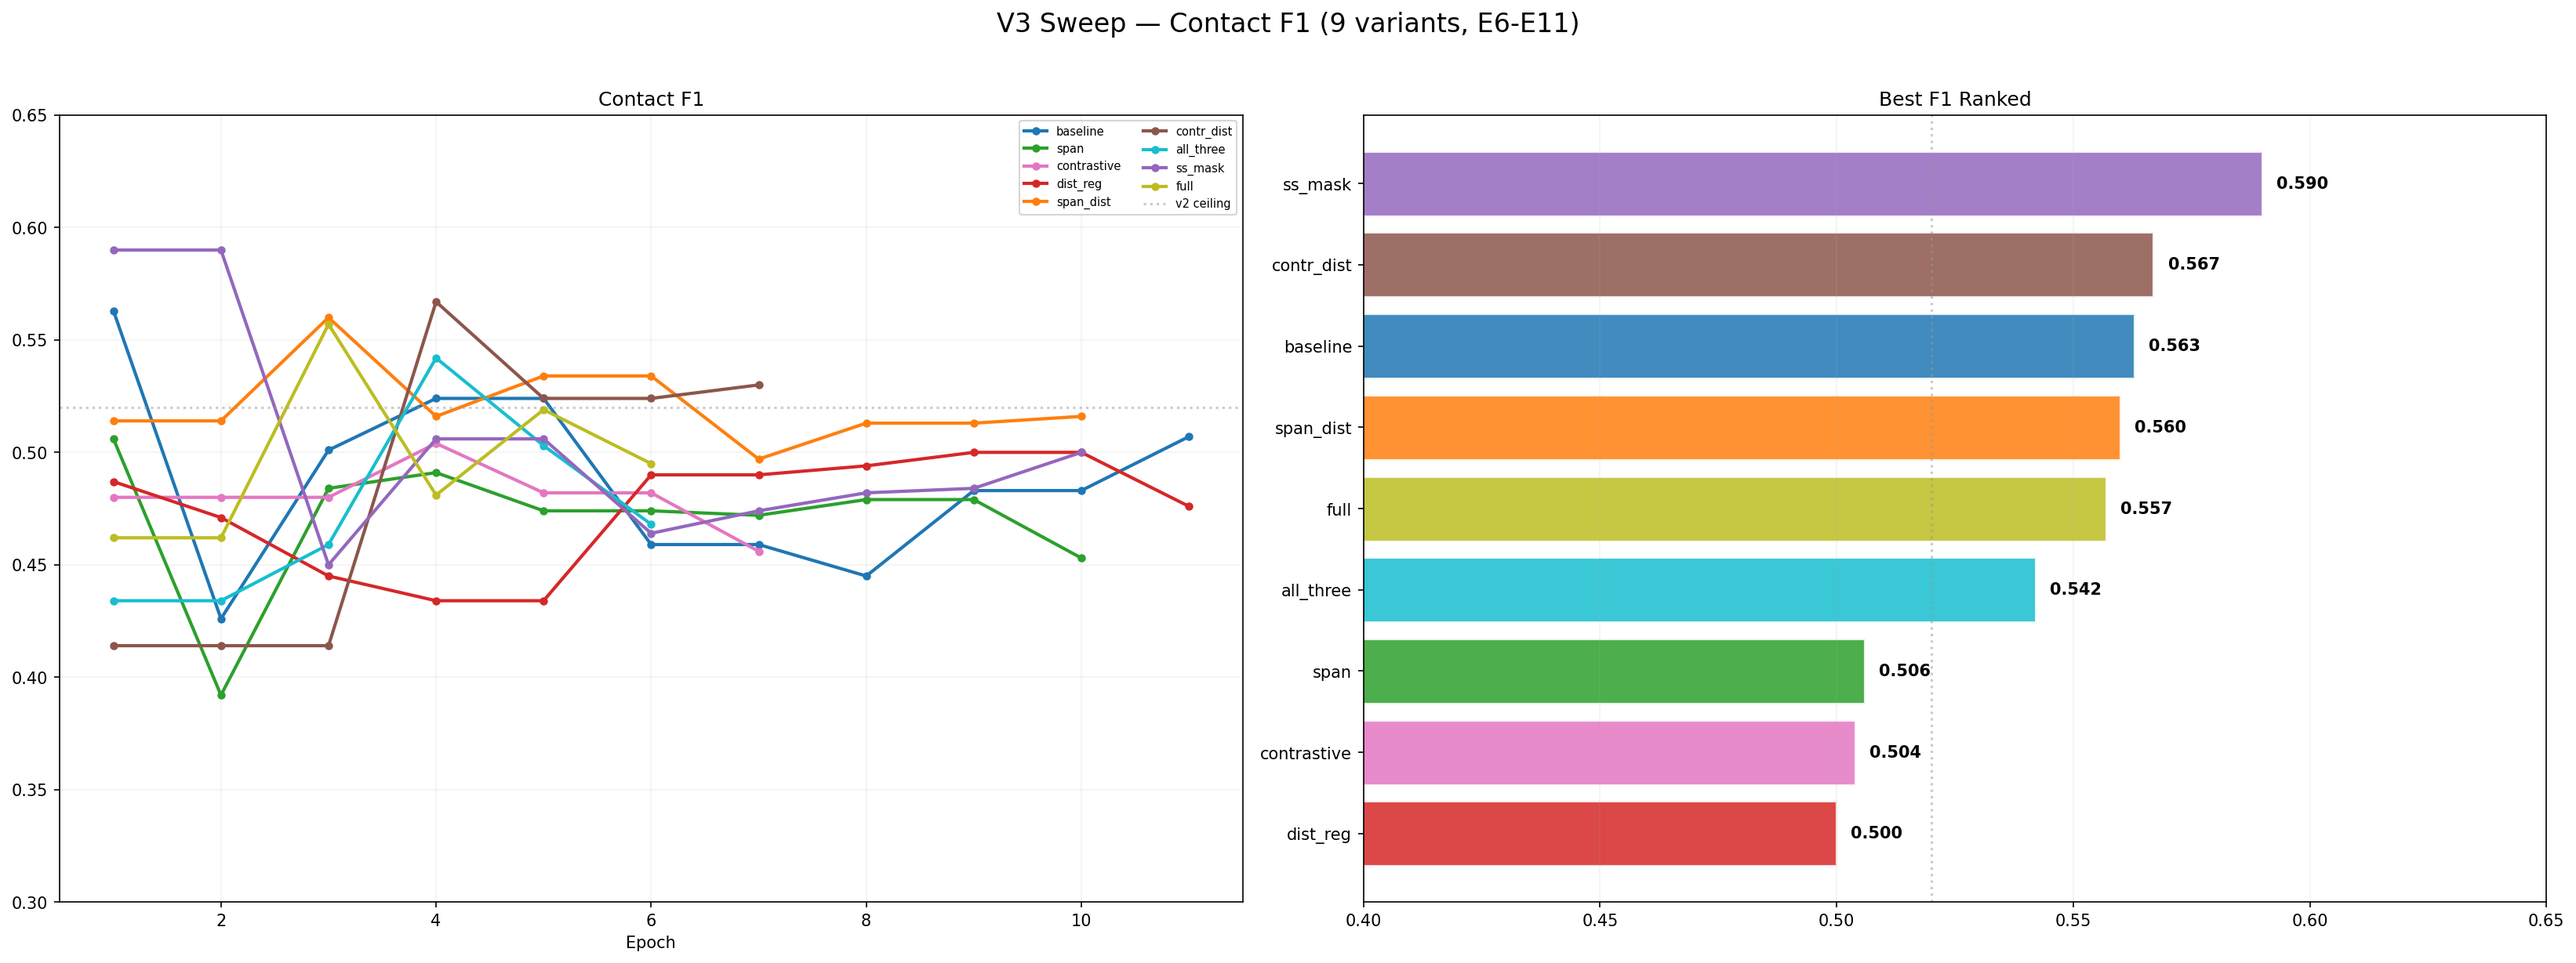
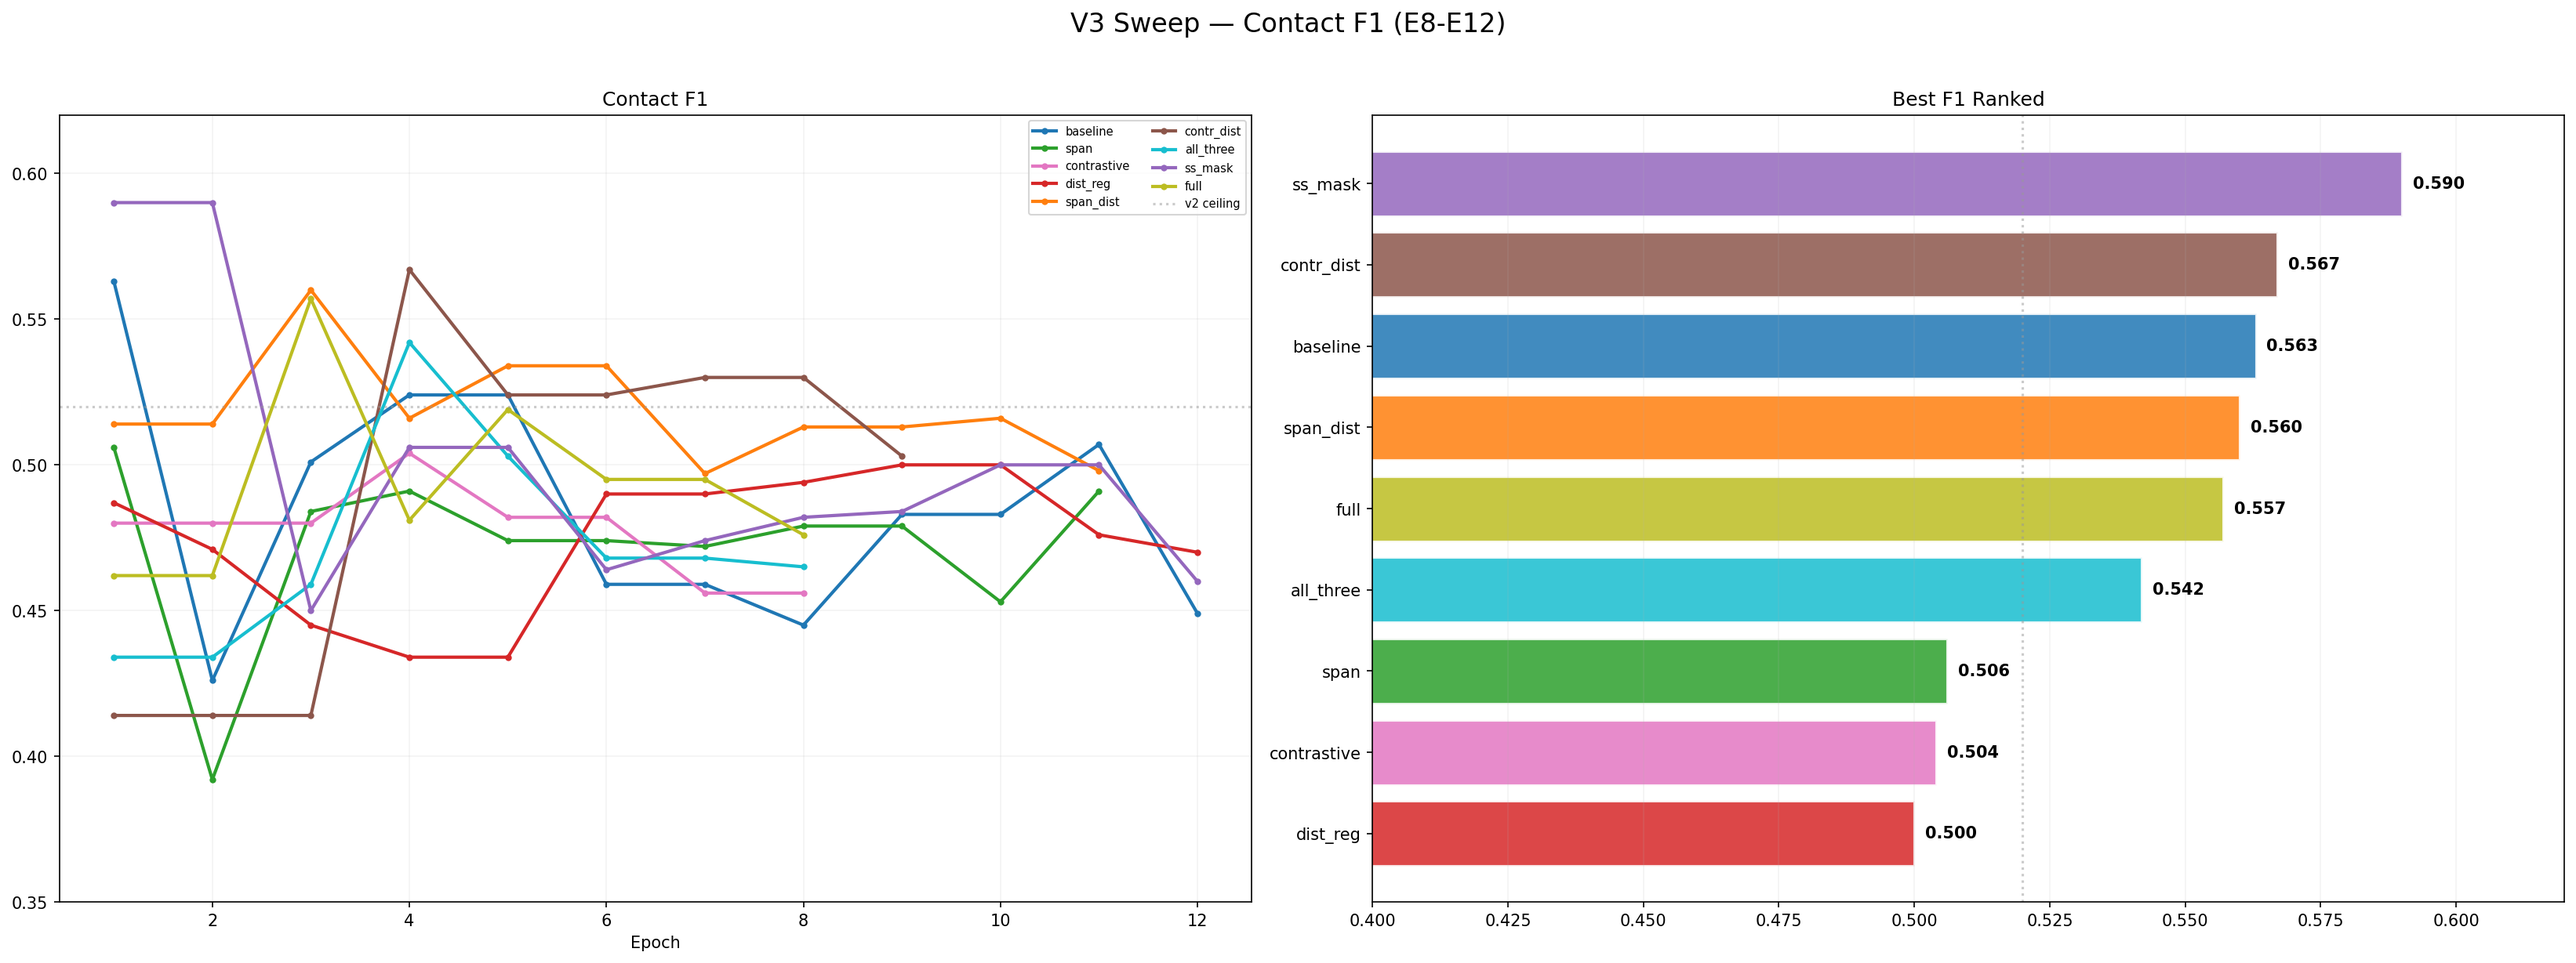
V3 E8-E12: all converging. contr_dist best sustained (0.503-0.530).
Variants settling into steady state. Distance MAE down to 2.51A.
full (E8) got new best val loss. All approaching patience limits.

diff --git a/minifold.html b/minifold.html
@@ -194,7 +194,7 @@
       Full architecture history, training tables, loss functions, and analysis for the protein backbone diffusion model.
     </p>
     <p id="last-updated" style="color: var(--text-secondary); font-size: 13px; margin-bottom: 16px; font-style: italic;">
-      Last updated: Mar 15, 2026 at 7:00 PM PST
+      Last updated: Mar 15, 2026 at 7:10 PM PST
     </p>
 
     <div class="mf-tabs">
